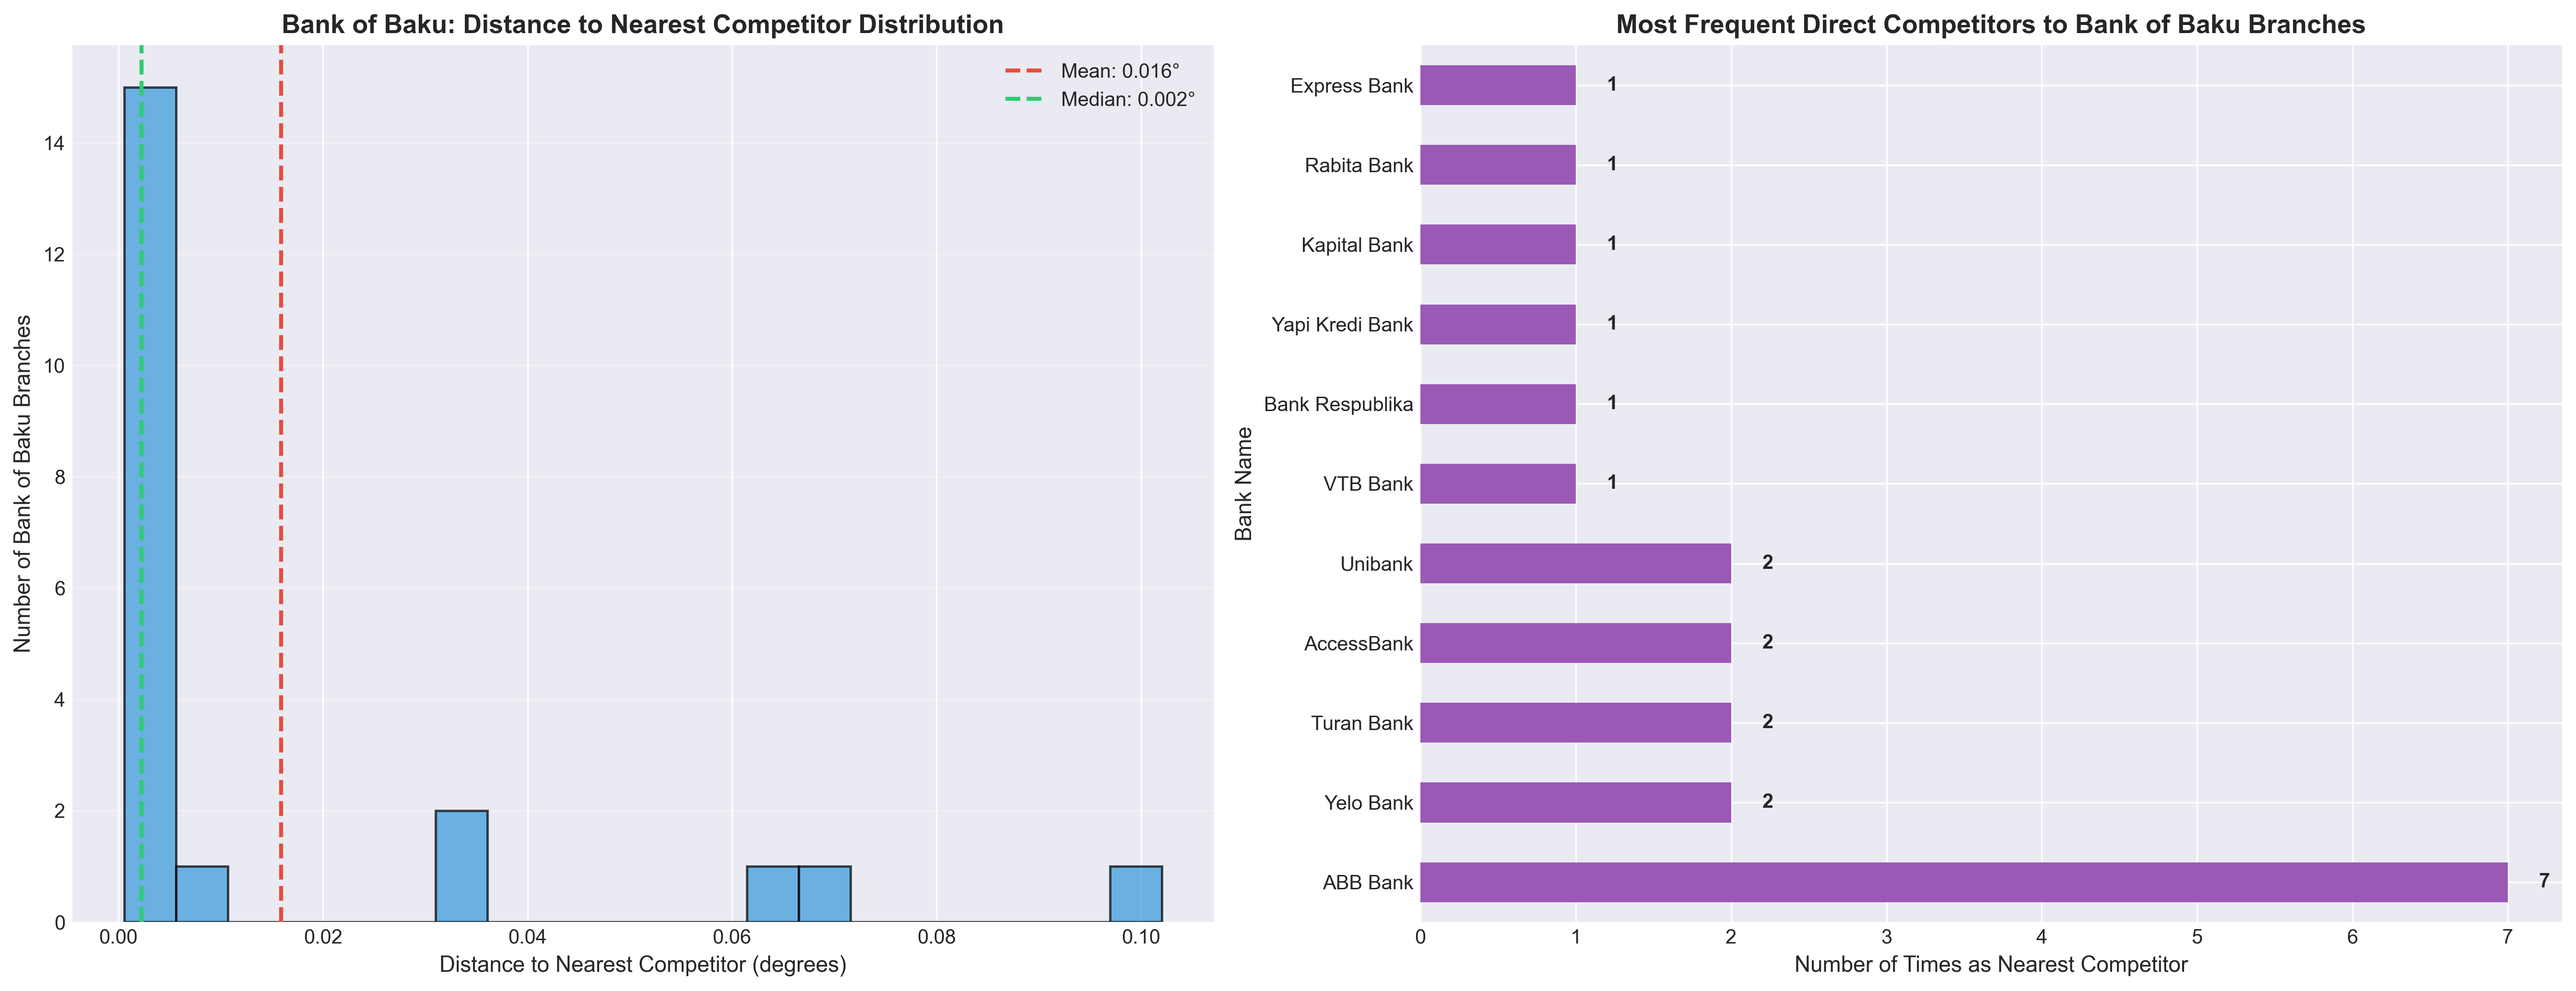
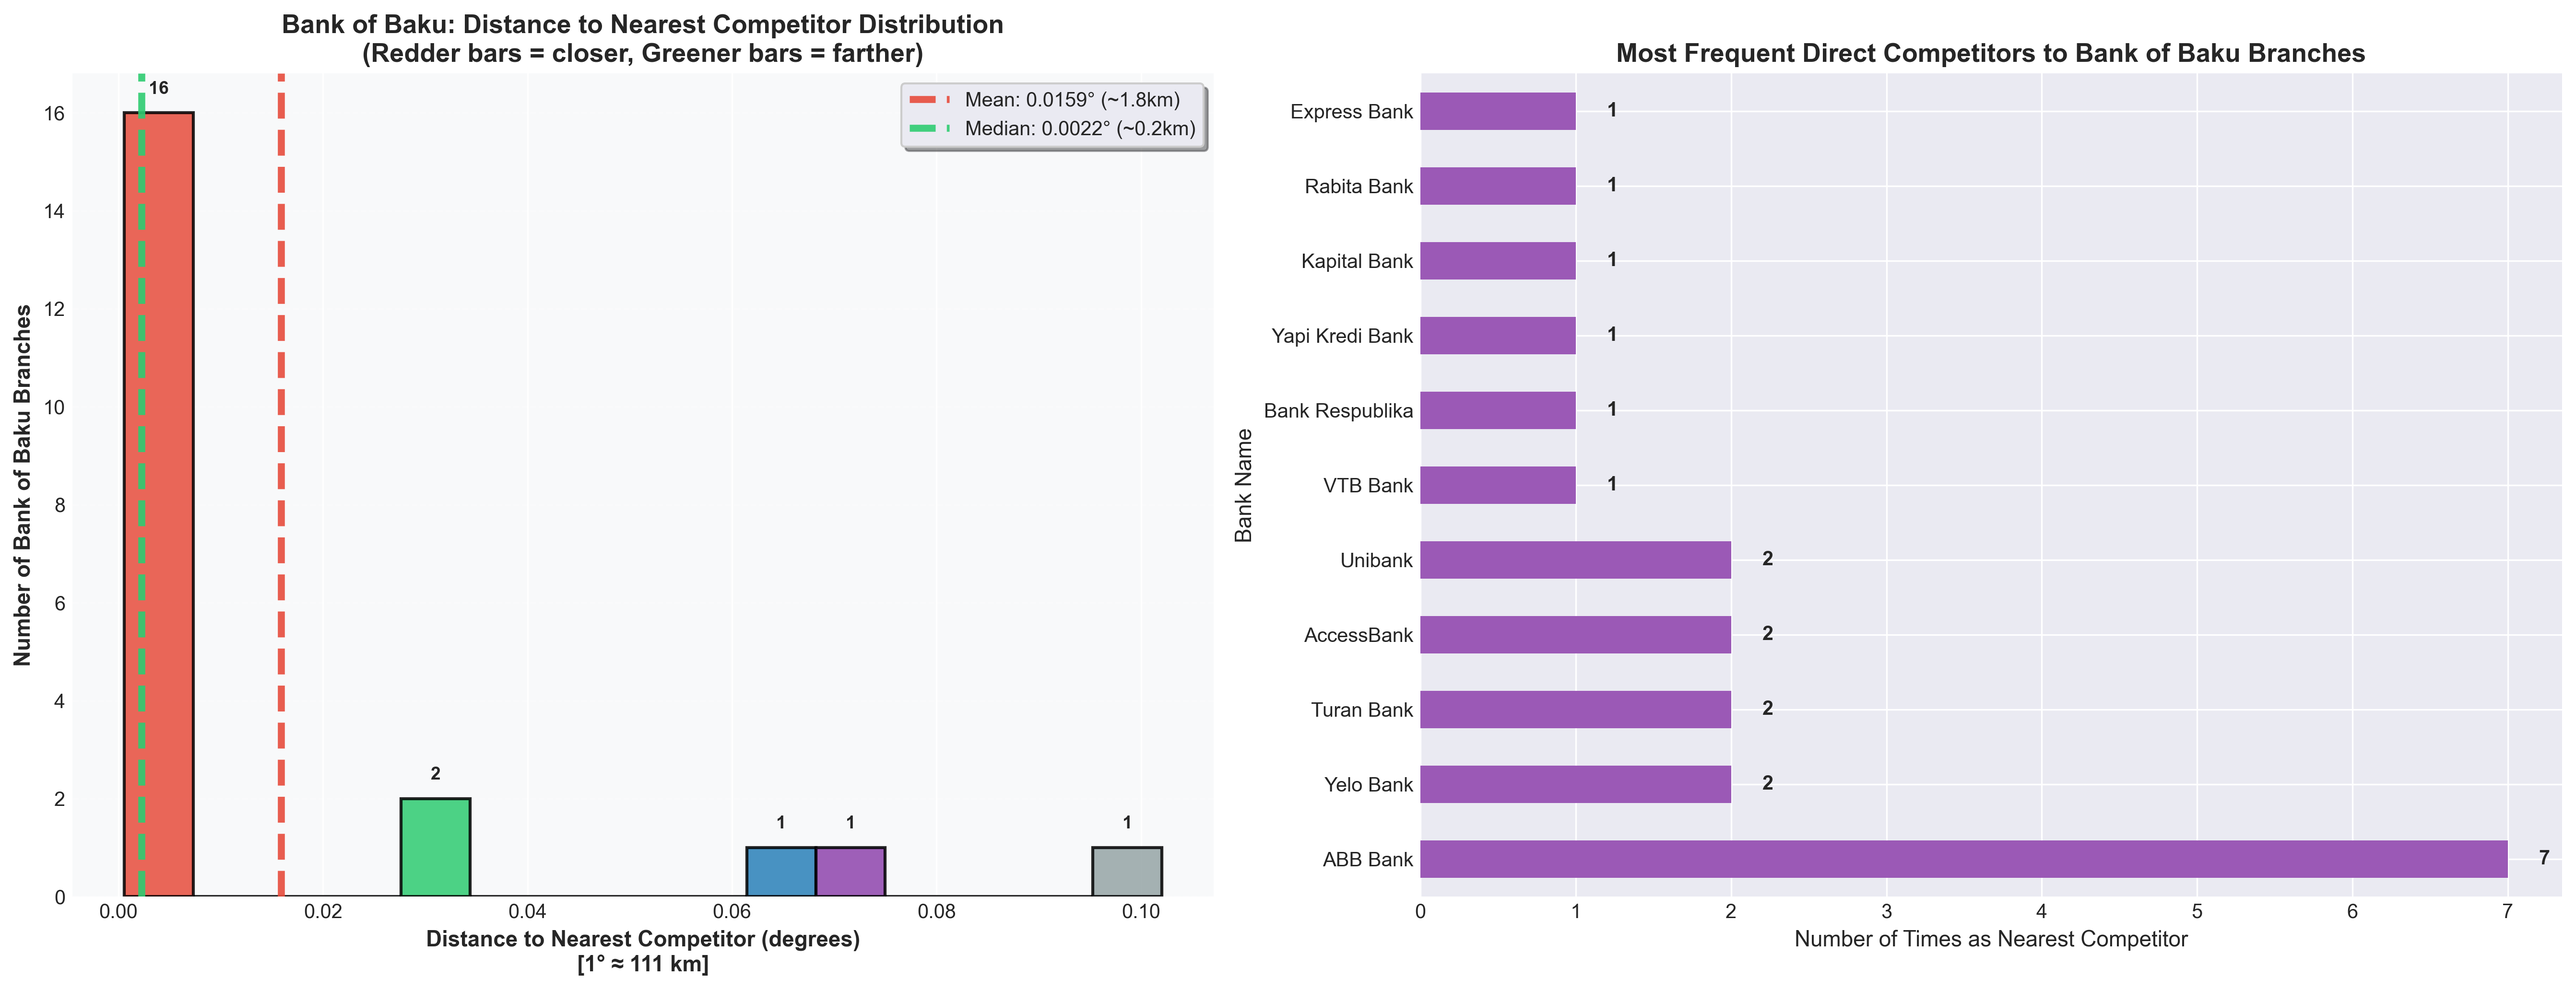
init

diff --git a/scripts/run_analysis.py b/scripts/run_analysis.py
@@ -623,19 +623,40 @@ bob_analysis['nearest_competitor'] = [comp_banks[i] for i in idx_comp.flatten()]
 
 fig, (ax1, ax2) = plt.subplots(1, 2, figsize=(18, 7))
 
-# Distribution of distances
-ax1.hist(bob_analysis['dist_to_competitor'], bins=20, color='#3498db',
-        alpha=0.7, edgecolor='black', linewidth=1.2)
-ax1.axvline(bob_analysis['dist_to_competitor'].mean(), color='#e74c3c',
-           linestyle='--', linewidth=2, label=f'Mean: {bob_analysis["dist_to_competitor"].mean():.3f}°')
-ax1.axvline(bob_analysis['dist_to_competitor'].median(), color='#2ecc71',
-           linestyle='--', linewidth=2, label=f'Median: {bob_analysis["dist_to_competitor"].median():.3f}°')
-ax1.set_xlabel('Distance to Nearest Competitor (degrees)', fontsize=11)
-ax1.set_ylabel('Number of Bank of Baku Branches', fontsize=11)
-ax1.set_title('Bank of Baku: Distance to Nearest Competitor Distribution',
+# Distribution of distances - Enhanced histogram
+n, bins, patches = ax1.hist(bob_analysis['dist_to_competitor'], bins=15,
+                             edgecolor='black', linewidth=1.5, alpha=0.85)
+
+# Color bars with gradient based on distance (closer = red, farther = green)
+colors = ['#e74c3c', '#e67e22', '#f39c12', '#f1c40f', '#2ecc71',
+          '#27ae60', '#16a085', '#1abc9c', '#3498db', '#2980b9',
+          '#8e44ad', '#9b59b6', '#34495e', '#7f8c8d', '#95a5a6']
+for i, patch in enumerate(patches):
+    patch.set_facecolor(colors[i % len(colors)])
+
+# Add prominent mean and median lines
+mean_val = bob_analysis['dist_to_competitor'].mean()
+median_val = bob_analysis['dist_to_competitor'].median()
+
+ax1.axvline(mean_val, color='#e74c3c', linestyle='--', linewidth=3.5,
+           label=f'Mean: {mean_val:.4f}° (~{mean_val*111:.1f}km)', zorder=10, alpha=0.9)
+ax1.axvline(median_val, color='#2ecc71', linestyle='--', linewidth=3.5,
+           label=f'Median: {median_val:.4f}° (~{median_val*111:.1f}km)', zorder=10, alpha=0.9)
+
+# Add value labels on top of bars
+for i, (count, bin_edge) in enumerate(zip(n, bins[:-1])):
+    if count > 0:
+        ax1.text(bin_edge + (bins[1]-bins[0])/2, count + max(n)*0.02,
+                int(count), ha='center', va='bottom', fontweight='bold', fontsize=9)
+
+ax1.set_xlabel('Distance to Nearest Competitor (degrees)\n[1° ≈ 111 km]',
+              fontsize=11, fontweight='bold')
+ax1.set_ylabel('Number of Bank of Baku Branches', fontsize=11, fontweight='bold')
+ax1.set_title('Bank of Baku: Distance to Nearest Competitor Distribution\n(Redder bars = closer, Greener bars = farther)',
              fontsize=13, fontweight='bold')
-ax1.legend(fontsize=10)
-ax1.grid(True, alpha=0.3, axis='y')
+ax1.legend(fontsize=10, frameon=True, fancybox=True, shadow=True, loc='upper right')
+ax1.grid(True, alpha=0.3, axis='y', linestyle='--')
+ax1.set_facecolor('#f8f9fa')
 
 # Nearest competitor frequency
 nearest_comp_counts = bob_analysis['nearest_competitor'].value_counts()
@@ -704,18 +725,39 @@ ax1.set_title('Average Competitive Intensity by Bank', fontsize=13, fontweight='
 for i, v in enumerate(intensity_comparison['Avg_Competitors_Nearby'].values):
     ax1.text(v + 0.5, i, f'{v:.1f}', va='center', fontweight='bold')
 
-# Bank of Baku intensity distribution
+# Bank of Baku intensity distribution - Enhanced histogram
 bob_intensities = intensity_data['Bank of Baku']
-ax2.hist(bob_intensities, bins=15, color='#e74c3c', alpha=0.7,
-        edgecolor='black', linewidth=1.2)
-ax2.axvline(np.mean(bob_intensities), color='black', linestyle='--',
-           linewidth=2, label=f'Mean: {np.mean(bob_intensities):.1f}')
-ax2.set_xlabel('Number of Competitors Within 10km', fontsize=11)
-ax2.set_ylabel('Number of Bank of Baku Branches', fontsize=11)
-ax2.set_title('Bank of Baku: Competitive Intensity Distribution',
+n, bins, patches = ax2.hist(bob_intensities, bins=15, edgecolor='black', linewidth=1.5, alpha=0.85)
+
+# Color bars with gradient: fewer competitors = green (good), more = red (high pressure)
+colors_intensity = ['#2ecc71', '#27ae60', '#16a085', '#1abc9c', '#3498db',
+                   '#2980b9', '#8e44ad', '#9b59b6', '#e67e22', '#f39c12',
+                   '#f1c40f', '#e74c3c', '#c0392b', '#d35400', '#c0392b']
+for i, patch in enumerate(patches):
+    patch.set_facecolor(colors_intensity[i % len(colors_intensity)])
+
+# Add prominent mean and median lines
+mean_intensity = np.mean(bob_intensities)
+median_intensity = np.median(bob_intensities)
+
+ax2.axvline(mean_intensity, color='#e74c3c', linestyle='--', linewidth=3.5,
+           label=f'Mean: {mean_intensity:.1f} competitors', zorder=10, alpha=0.9)
+ax2.axvline(median_intensity, color='#2ecc71', linestyle='--', linewidth=3.5,
+           label=f'Median: {median_intensity:.1f} competitors', zorder=10, alpha=0.9)
+
+# Add value labels on top of bars
+for i, (count, bin_edge) in enumerate(zip(n, bins[:-1])):
+    if count > 0:
+        ax2.text(bin_edge + (bins[1]-bins[0])/2, count + max(n)*0.02,
+                int(count), ha='center', va='bottom', fontweight='bold', fontsize=9)
+
+ax2.set_xlabel('Number of Competitors Within 10km', fontsize=11, fontweight='bold')
+ax2.set_ylabel('Number of Bank of Baku Branches', fontsize=11, fontweight='bold')
+ax2.set_title('Bank of Baku: Competitive Intensity Distribution\n(Greener bars = lower competition, Redder bars = higher competition)',
              fontsize=13, fontweight='bold')
-ax2.legend(fontsize=10)
-ax2.grid(True, alpha=0.3, axis='y')
+ax2.legend(fontsize=10, frameon=True, fancybox=True, shadow=True, loc='upper right')
+ax2.grid(True, alpha=0.3, axis='y', linestyle='--')
+ax2.set_facecolor('#f8f9fa')
 
 plt.tight_layout()
 plt.savefig('charts/11_competitive_intensity.png', dpi=300, bbox_inches='tight')
